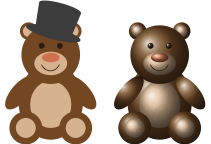
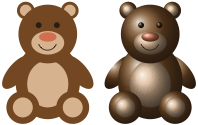
renamed files

diff --git a/owl.tex b/owl.tex
@@ -1,104 +1,6 @@
 \documentclass{standalone}
 
-\makeatletter
-\RequirePackage{tikz}
-
-\newcommand*{\owl}[1][]{%
-	\begin{scope}%
-		\tikzset{/owl/.cd,#1}%
-		\owl@draw%
-	\end{scope}%
-}
-
-\newif\ifowl@threeD
-
-\tikzset{
-  %
-  % Pass unknown keys on to tikz
-  %
-  /owl/.search also={/tikz,/pgf},
-  /owl/.cd,
-  %
-  % body
-  %
-  body/.code         = \def\owl@body{#1},
-  body               = brown!70!black,
-  eye/.code          = \def\owl@eye{#1},
-  eye                = white!90!gray,
-  pupil/.code        = \def\owl@pupil{#1},
-  pupil              = brown!30!black,
-  bill/.code         = \def\owl@bill{#1},
-  bill               = orange,
-  feet/.code         = \def\owl@feet{#1},
-  feet               = orange,  
-  %
-  % options
-  %
-  3D/.code			     = \owl@threeDtrue,
-}
-
-\def\owl@draw{%
-%%%%%%%%%%%%%%%%%%%%%%%%%%%%%%%%%%%%%%%%%%%%%%%%%%%%%%%%%%%%%%%%%%%%%%
-%
-% minimal bounding box size 
-%
-%%%%%%%%%%%%%%%%%%%%%%%%%%%%%%%%%%%%%%%%%%%%%%%%%%%%%%%%%%%%%%%%%%%%%%
-\path (-0.73, 0.08) rectangle (0.73, 2.24);
-%
-%%%%%%%%%%%%%%%%%%%%%%%%%%%%%%%%%%%%%%%%%%%%%%%%%%%%%%%%%%%%%%%%%%%%%%
-% 
-% switch between 2D and 3D, from
-% https://chat.stackexchange.com/transcript/message/45991801#45991801
-%
-%%%%%%%%%%%%%%%%%%%%%%%%%%%%%%%%%%%%%%%%%%%%%%%%%%%%%%%%%%%%%%%%%%%%%%
-\ifowl@threeD
-	\def\owl@part@draw##1{\shade[ball color=##1]}
-\else
-	\def\owl@part@draw##1{\fill[##1]}
-\fi
-%
-%%%%%%%%%%%%%%%%%%%%%%%%%%%%%%%%%%%%%%%%%%%%%%%%%%%%%%%%%%%%%%%%%%%%%%
-%
-% Body parts (center: x=0.925)
-% 
-%%%%%%%%%%%%%%%%%%%%%%%%%%%%%%%%%%%%%%%%%%%%%%%%%%%%%%%%%%%%%%%%%%%%%%
-%
-% Arms %%%%%%%%%%%%%%%%%%%%%%%%%%%%%%%%%%%%%%%%%%%%%%%%%%%%%%%%%%%%%%%
-\owl@part@draw{\owl@body,rotate around={-80:(0.575,0.8)}} (0.575,0.8) ellipse (0.38 and 0.1);
-\owl@part@draw{\owl@body,rotate around={80:(-0.575,0.8)}} (-0.575,0.8) ellipse (0.38 and 0.1); 
-%
-% Body %%%%%%%%%%%%%%%%%%%%%%%%%%%%%%%%%%%%%%%%%%%%%%%%%%%%%%%%%%%%%%%
-\owl@part@draw{\owl@body} (0.595, 0.92) .. controls (0.595, 0.26) and (0.355, 0.18) .. (0, 0.18) .. controls (-0.355, 0.18) and (-0.595, 0.26) .. (-0.595, 0.92) .. controls (-0.605, 1.58) and (-0.335, 2.11) .. (0, 2.11) .. controls (0.335, 2.11) and (0.605, 1.58) .. (0.595, 0.92) -- cycle;
-%
-% Ears %%%%%%%%%%%%%%%%%%%%%%%%%%%%%%%%%%%%%%%%%%%%%%%%%%%%%%%%%%%%%%%
-\owl@part@draw{\owl@body} (-0.6361, 1.777) .. controls 	(-0.6361, 1.777) and 	(-0.7586, 1.9603) .. 	(-0.6759, 2.2145) .. controls 	(-0.3248, 1.912) and 	(0.3248, 1.912) .. 	(0.6759, 2.2145) .. controls 	(0.7586, 1.9603) and 	(0.6361, 1.777) .. 	(0.6361, 1.777);
-%
-% Belly %%%%%%%%%%%%%%%%%%%%%%%%%%%%%%%%%%%%%%%%%%%%%%%%%%%%%%%%%%%%%%
-\owl@part@draw{\owl@body!50!white} (0.425,0.5) .. controls (0.425,0.31) and (0.245,0.27) .. (0,0.27) .. controls (-0.245,0.27) and (-0.425,0.31) .. (-0.425,0.5) .. controls (-0.425,0.81) and (-0.225,0.98) .. (0,0.98) .. controls (0.225,0.98) and (0.425,0.81) .. (0.425,0.5) -- cycle;
-%
-% head %%%%%%%%%%%%%%%%%%%%%%%%%%%%%%%%%%%%%%%%%%%%%%%%%%%%%%%%%%%%%%%
-\owl@part@draw{\owl@body}(0,1.55) ellipse (0.7 and 0.55);
-%
-% Eyes %%%%%%%%%%%%%%%%%%%%%%%%%%%%%%%%%%%%%%%%%%%%%%%%%%%%%%%%%%%%%%%
-\fill[\owl@eye] 						(-0.28, 1.6) circle (0.22);
-\owl@part@draw{\owl@pupil} 	(-0.28, 1.6) circle (0.15);
-\fill[\owl@eye] 						(0.28, 1.6) circle (0.22);
-\owl@part@draw{\owl@pupil} 	(0.28, 1.6) circle (0.15);
-\owl@part@draw{white} (0.25, 1.64) circle (0.03);
-\owl@part@draw{white} (-0.31, 1.64) circle (0.03);
-%
-% Bill %%%%%%%%%%%%%%%%%%%%%%%%%%%%%%%%%%%%%%%%%%%%%%%%%%%%%%%%%%%%%%%
-\owl@part@draw{\owl@bill} (0, 1.4) -- (-0.1, 1.3) -- (0, 1.15) -- (0.1, 1.3) -- cycle;
-%
-% Feet %%%%%%%%%%%%%%%%%%%%%%%%%%%%%%%%%%%%%%%%%%%%%%%%%%%%%%%%%%%%%%%
-\owl@part@draw{\owl@feet} (0.175,0.2) ellipse (0.03 and 0.1);
-\owl@part@draw{\owl@feet,rotate around={20:(0.225,0.21)}} (0.225,0.21) ellipse (0.03 and 0.1);
-\owl@part@draw{\owl@feet,rotate around={40:(0.275,0.23)}} (0.275,0.23) ellipse (0.03 and 0.1);
-\owl@part@draw{\owl@feet} (-0.175,0.2) ellipse (0.03 and 0.1);
-\owl@part@draw{\owl@feet,rotate around={-20:(-0.225,0.21)}} (-0.225,0.21) ellipse (0.03 and 0.1);
-\owl@part@draw{\owl@feet,rotate around={-40:(-0.275,0.23)}} (-0.275,0.23) ellipse (0.03 and 0.1);
-}
-\makeatother
+\usepackage{tikzzoo-owls}
 
 \usepackage{tikzducks}
 

diff --git a/zoo.tex b/zoo.tex
@@ -6,15 +6,19 @@
 	
 \begin{tikzpicture}
 	\bear
-	\duck[invisible,tophat=gray!60!black]
+%	\duck[invisible,tophat=gray!60!black]
 \end{tikzpicture}	
 \begin{tikzpicture}
 	\penguin
-	\duck[invisible,tophat=gray!60!black]
+%	\duck[invisible,tophat=gray!60!black]
 \end{tikzpicture}	
 \begin{tikzpicture}
 	\marmot
-	\duck[invisible,tophat=gray!60!black]
+%	\duck[invisible,tophat=gray!60!black]
+\end{tikzpicture}	
+\begin{tikzpicture}
+	\owl
+%	\duck[invisible,tophat=gray!60!black]
 \end{tikzpicture}	
 
 \begin{tikzpicture}
@@ -25,6 +29,9 @@
 \end{tikzpicture}	
 \begin{tikzpicture}
 	\marmot[3D]
+\end{tikzpicture}	
+\begin{tikzpicture}
+	\owl[3D]
 \end{tikzpicture}	
 
 \end{document}

diff --git a/marmot.tex b/marmot.tex
@@ -1,4 +1,4 @@
-\documentclass{article}
+\documentclass{standalone}
 
 \usepackage{tikzzoo-marmots}
 
@@ -11,18 +11,5 @@
 \begin{tikzpicture}
 \marmot[3D]
 \end{tikzpicture}	
-	
-\begin{tikzpicture}
-\marmot[teeth,whiskers]
-\end{tikzpicture}	
-
-\begin{tikzpicture}
-\marmot[shadow]
-\end{tikzpicture}	
-	
-\begin{tikzpicture}
-\marmot[askphil]
-\end{tikzpicture}	
-		
 	
 \end{document}

diff --git a/pingu.tex b/pingu.tex
@@ -1,13 +1,13 @@
 \documentclass{standalone}
 
-\usepackage{tikzpenguins}
+\usepackage{tikzzoo-penguins}
 \usepackage{tikzducks}
 
 \begin{document}
 	
 \begin{tikzpicture}
 	\penguin
-	\duck[invisible,tophat=gray!60!black]
+%	\duck[invisible,tophat=gray!60!black]
 \end{tikzpicture}	
 
 \begin{tikzpicture}

diff --git a/bear.tex b/bear.tex
@@ -1,13 +1,13 @@
 \documentclass{standalone}
 
-\usepackage{tikzbears}
+\usepackage{tikzzoo-bears}
 \usepackage{tikzducks}
 
 \begin{document}
 	
 \begin{tikzpicture}
 	\bear
-	\duck[invisible,tophat=gray!60!black]
+%	\duck[invisible,tophat=gray!60!black]
 \end{tikzpicture}	
 
 \begin{tikzpicture}
